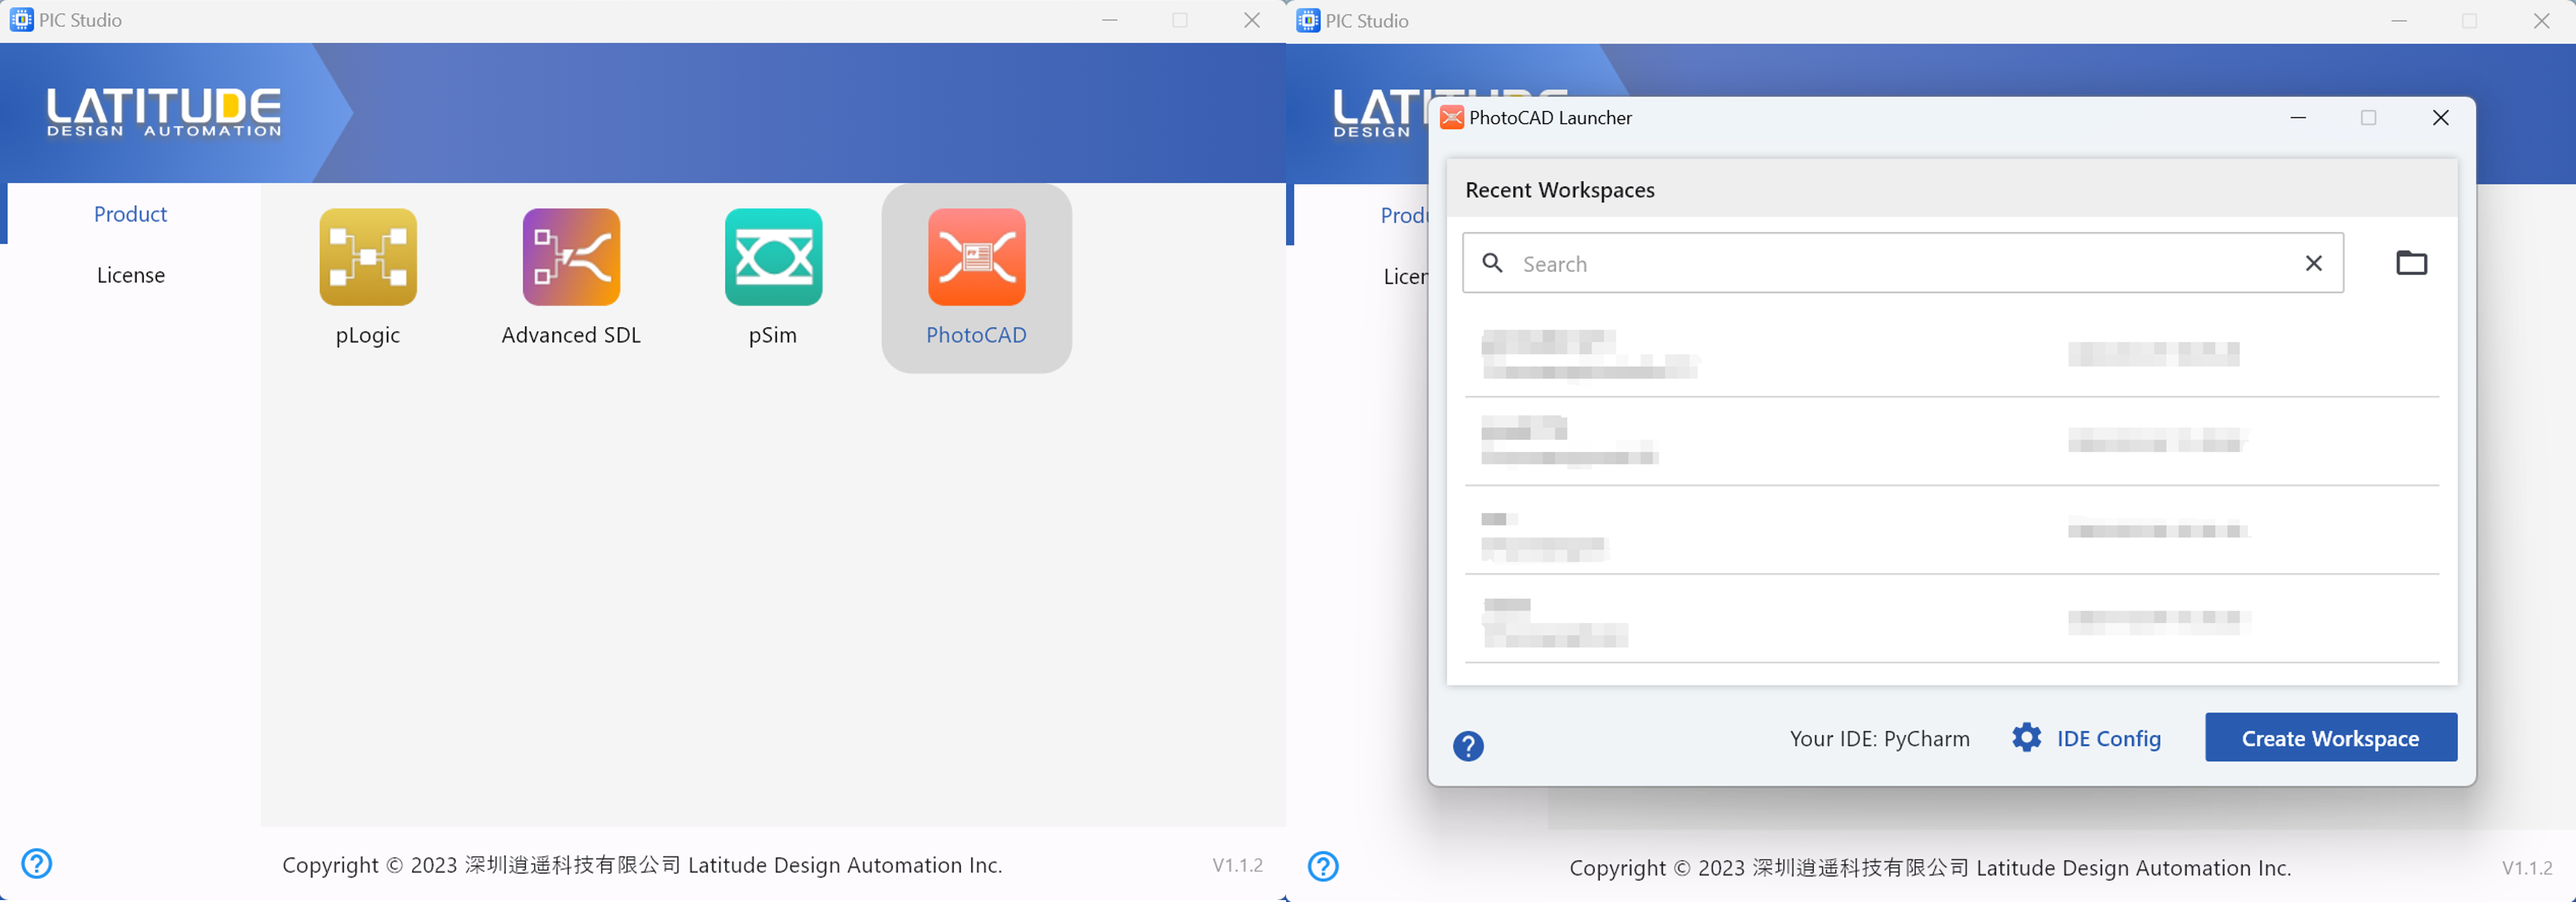
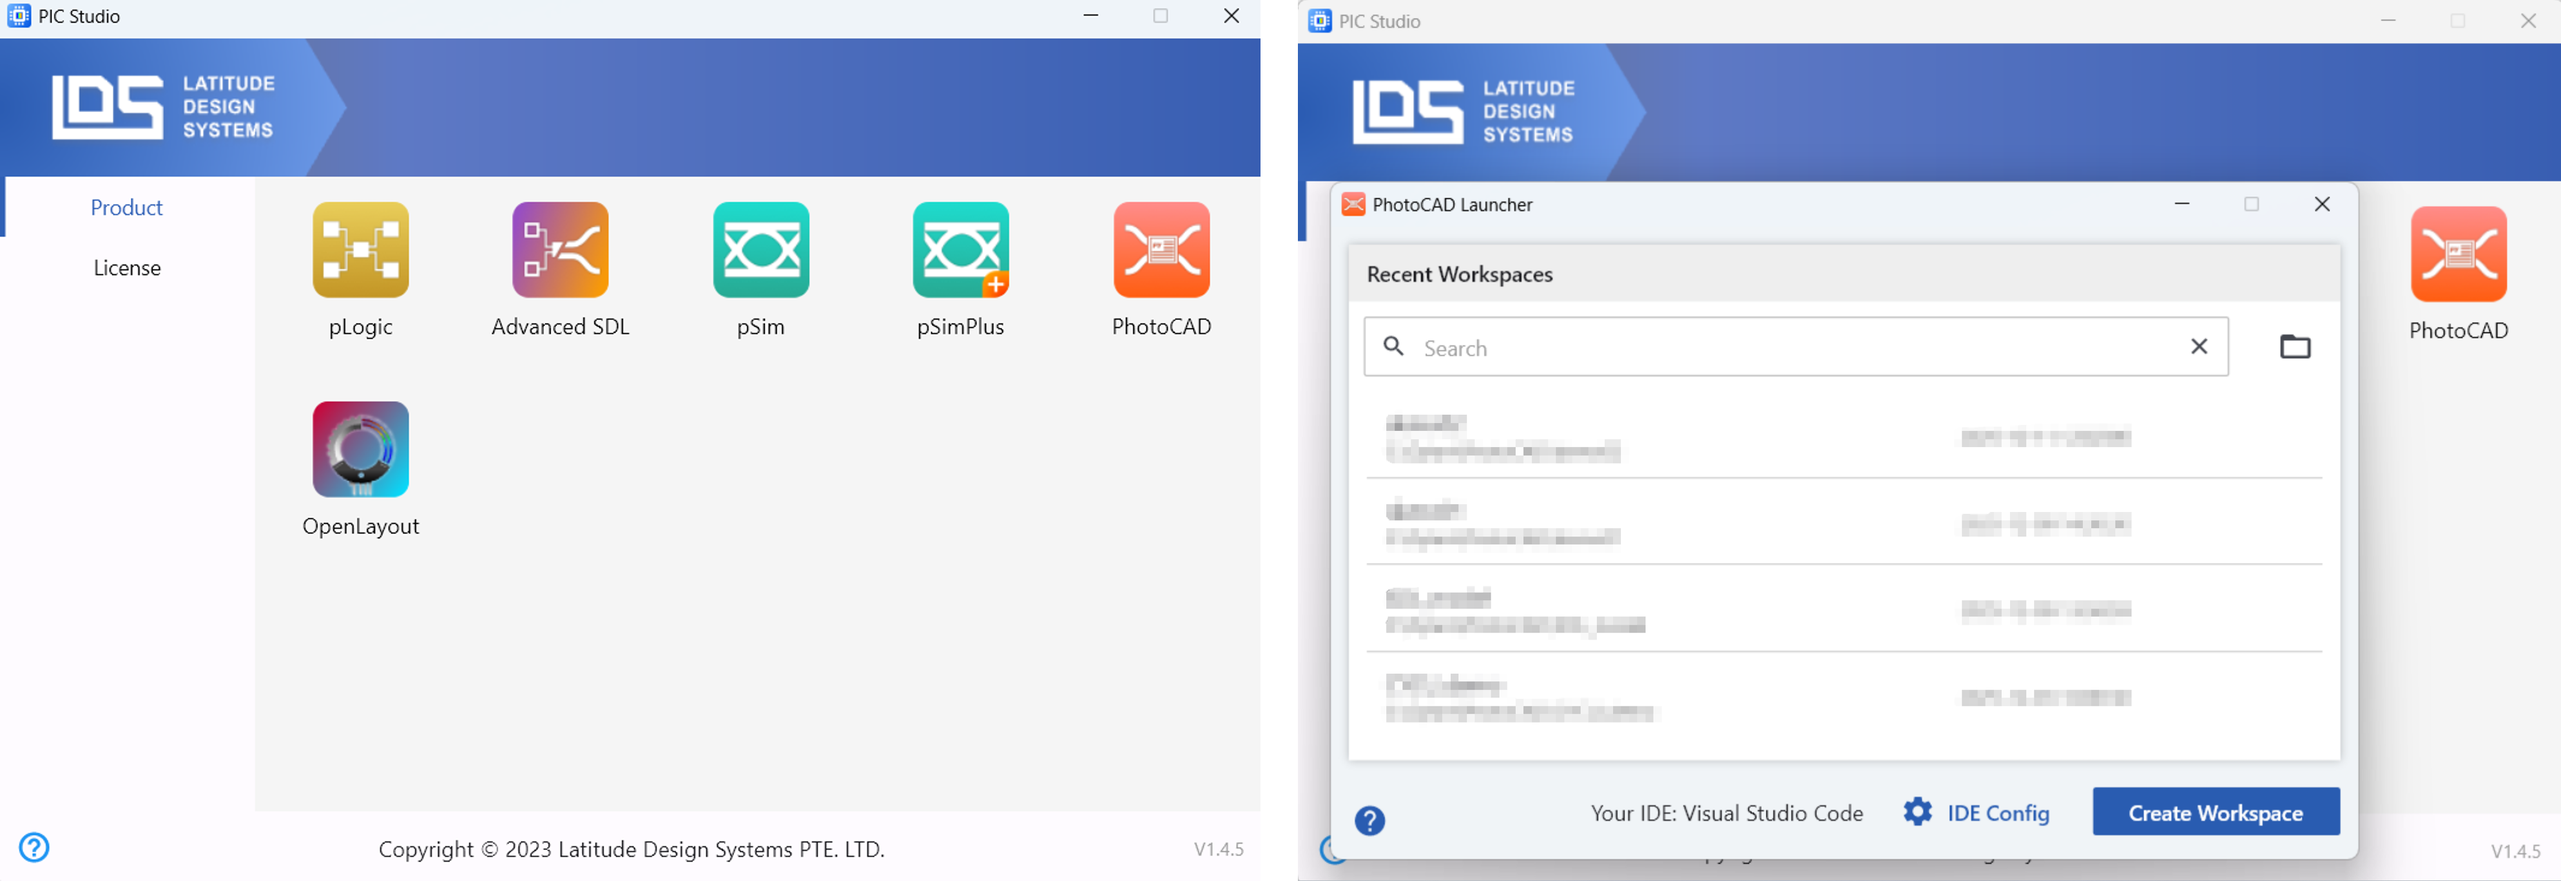
lda to lds

diff --git a/docs/source/conf.py b/docs/source/conf.py
@@ -3,8 +3,8 @@
 # -- Project information
 
 project = 'SilTerra EMO1 Cu PDK Documentation'
-copyright = '2025, Latitudeda.com'
-author = 'www.latitudeda.com'
+copyright = '2025, Latitudeds.com'
+author = 'www.latitudeds.com'
 
 release = '8.0'
 version = '8.0'

diff --git a/docs/source/index.rst b/docs/source/index.rst
@@ -1,6 +1,6 @@
 SilTerra EMO1 Cu documentation
 ====================================
-.. image:: ./images/LDA_LOGO_WIDE.png
+.. image:: ./images/LDS_LOGO_WIDE.png
    :width: 100%
    :align: center
 
